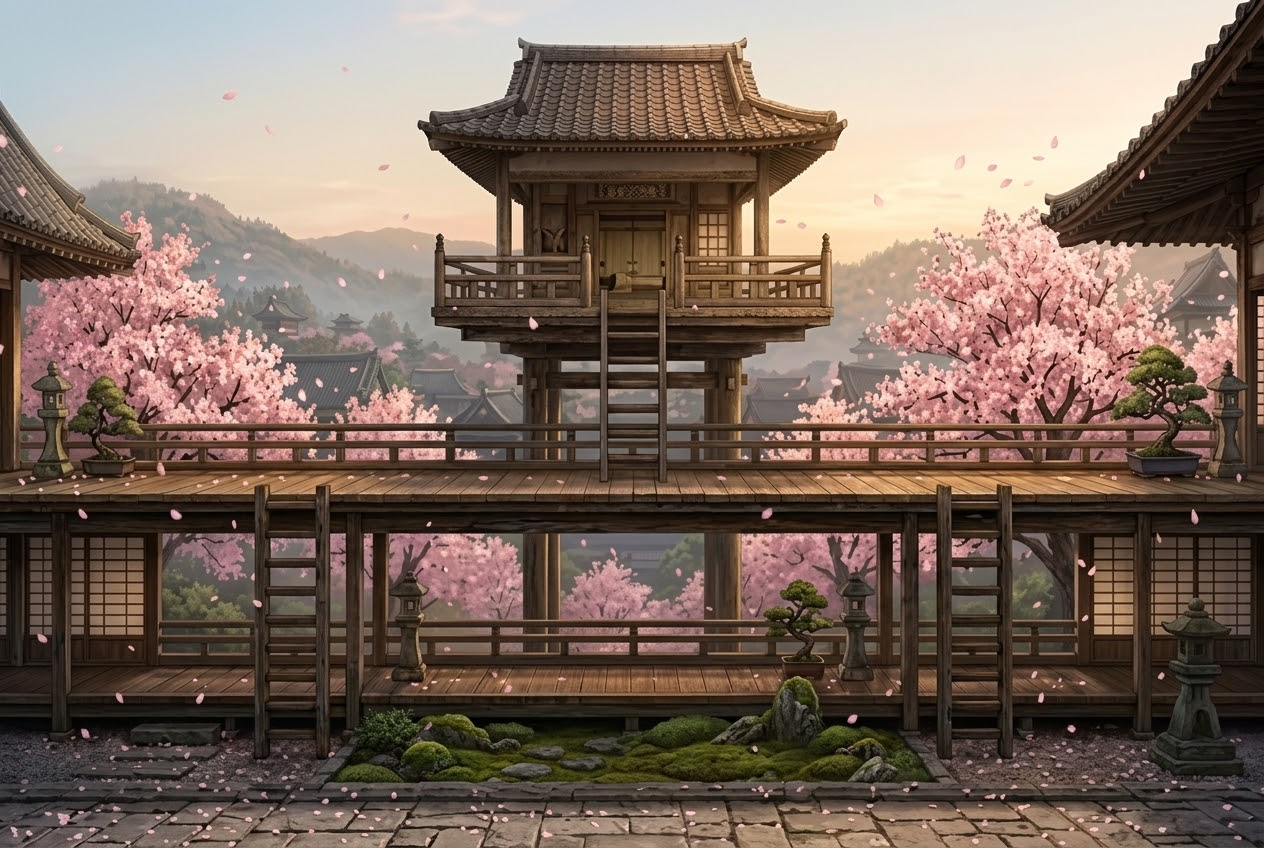
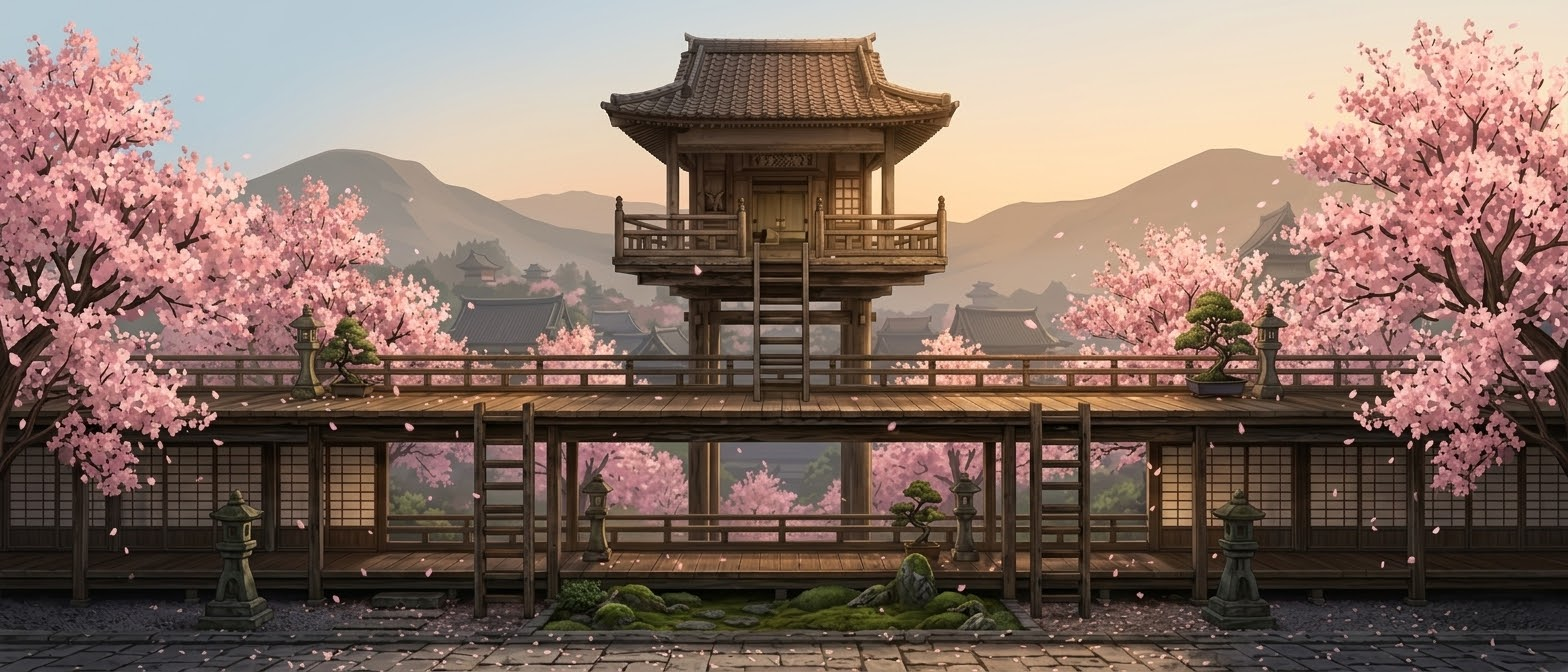
Sakura Heights: swap to flat-camera art (v3)
The v2 art had a subtle low-angle/upward tilt (visible platform
undersides). User regenerated with a proper flat orthogonal side view at
1568x672. Re-measured all floor lines and ladder positions from the new
image: top (pavilion) y=230, mid (walkway) y=400, bottom (courtyard)
y=602, ladders at x=503/770/1060, pavilion spans x=610-935. Updated
platform_mode.test.mjs dimension assertion to match.

diff --git a/game/src/levels/sakura-heights.js b/game/src/levels/sakura-heights.js
@@ -2,30 +2,31 @@
  * Sakura Heights — แมพโหมด Platform (ไอเดียต้นฉบับ: "Map ใหม่ตัวละครสูงไปจนชน platform สูง...")
  * ธีมศาลาญี่ปุ่น/ซากุระ ตรงกับภาพอ้างอิงที่ผู้ใช้ส่งมา (ศาลาไม้กลางแจ้ง มีบันไดขึ้นศาลา สวนหินมอสด้านล่าง)
  *
- * v2: มีอาร์ตจริงแล้ว (ผู้ใช้เจนภาพเอง 1264x848) ใช้ตรงๆ 1:1 ไม่สเกล
- * (v1 เป็น blockout สีเรียบ worldWidth 2200x950 — เลขทั้งหมดด้านล่างวัดใหม่จากภาพจริง
+ * v3: เปลี่ยนอาร์ตเป็นเวอร์ชันกล้อง flat/orthogonal จริง (ผู้ใช้เจนใหม่ 1568x672) — ใช้ตรงๆ 1:1 ไม่สเกล
+ * (v2 ของเดิม 1264x848 กล้องเงยขึ้นเล็กน้อย มองเห็นใต้พื้นชั้นบน ผู้ใช้เจนใหม่ตรงกว่าตามที่ขอ
+ * "มุม side view มันเหมือนเงยหน้ามองเลย อยากมองแบบตรงๆ" — เลขทั้งหมดด้านล่างวัดใหม่จากภาพ v3
  * ด้วยการวางกริดพิกเซลทับภาพแล้วดูตำแหน่งขอบพื้น/บันไดตรงๆ เหมือนที่ทำกับ neon-underline-bangkok.js v1->v2)
  *
- * โครงสร้าง (x กว้าง 1264, y ลึก 848):
- *   บน (top)   ศาลาลอยกลางจอ [440-830]   y=295 (พื้นระเบียงศาลา ใต้ราวไม้)
- *   กลาง (mid) เต็มความกว้าง [0-1264]     y=495 (พื้นระเบียงไม้ชั้นกลาง)
- *   ล่าง (bot) เต็มความกว้าง [0-1264]     y=780 (ลานหินสวนมอส)
+ * โครงสร้าง (x กว้าง 1568, y ลึก 672):
+ *   บน (top)   ศาลาลอยกลางจอ [610-935]   y=230 (พื้นระเบียงศาลา ใต้ราวไม้)
+ *   กลาง (mid) เต็มความกว้าง [0-1568]     y=400 (พื้นระเบียงไม้ชั้นกลาง)
+ *   ล่าง (bot) เต็มความกว้าง [0-1568]     y=602 (ลานหินสวนมอส)
  *
  * ออกแบบ "fall-free" ตามไอเดียผู้ใช้เป๊ะ: ไม่มี pit/ช่องว่างให้ตกเลย — ตายทางเดียวคือ HP หมด
  * ชั้นล่าง+กลาง เต็มความกว้างจอทั้งคู่ (เดินสุดขอบไม่มีตก) ชั้นบนลอยกลางจอ แต่ซ้าย-ขวาเปิดโล่ง
  * (ยืนขอบแล้วมองเห็นชั้นกลางด้านล่างตรงๆ — หล่นกลับไปชั้นกลางได้เฉย ๆ ไม่ใช่ตกหลุม)
  * ขึ้น-ลงทุกชั้นด้วยบันไดเท่านั้น (climb zone) ไม่ใช่กระโดดลัด — ล่าง<->กลาง 2 บันไดริมซ้าย-ขวา
- * (x=290/950 ตรงกับบันไดไม้ในภาพจริง) กลาง<->บน 1 บันไดกลางจอ (x=620 ตรงกับบันไดขึ้นศาลาในภาพ)
+ * (x=503/1060 ตรงกับบันไดไม้ในภาพจริง) กลาง<->บน 1 บันไดกลางจอ (x=770 ตรงกับบันไดขึ้นศาลาในภาพ)
  *
  * ยังไม่ได้ยืนตัวละครจริงในเกมเทียบ — ถ้าเล่นแล้วลอย/จมให้ขยับทีละ 10-20 เหมือนแมพอื่น
  */
-const WORLD_W = 1264;
-const WORLD_H = 848;
+const WORLD_W = 1568;
+const WORLD_H = 672;
 const T = 24; // ความหนาพื้นเดินได้
 
-const Y = { top: 295, mid: 495, bot: 780 };
-const TOP_X = 440;
-const TOP_W = 390; // ศาลาลอยกลางจอ [440-830] วัดจากขอบเสาราวในภาพจริง
+const Y = { top: 230, mid: 400, bot: 602 };
+const TOP_X = 610;
+const TOP_W = 325; // ศาลาลอยกลางจอ [610-935] วัดจากขอบเสาราวในภาพจริง
 
 export const SAKURA_HEIGHTS = {
   id: "sakura-heights",
@@ -46,9 +47,9 @@ export const SAKURA_HEIGHTS = {
 
   // บันไดปีน — x ตรงกับบันไดที่วาดไว้ในภาพจริง (ล่าง<->กลาง ริมซ้าย/ขวา, กลาง<->บน กลางจอ)
   ladders: [
-    { x: 290, width: 70, topY: Y.mid, bottomY: Y.bot }, // ล่างซ้าย <-> กลางซ้าย (บันไดไม้ริมซ้าย)
-    { x: 950, width: 70, topY: Y.mid, bottomY: Y.bot }, // ล่างขวา <-> กลางขวา (บันไดไม้ริมขวา)
-    { x: 620, width: 70, topY: Y.top, bottomY: Y.mid }, // กลาง <-> บน (บันไดขึ้นศาลากลางจอ)
+    { x: 503, width: 60, topY: Y.mid, bottomY: Y.bot }, // ล่างซ้าย <-> กลางซ้าย (บันไดไม้ริมซ้าย)
+    { x: 1060, width: 60, topY: Y.mid, bottomY: Y.bot }, // ล่างขวา <-> กลางขวา (บันไดไม้ริมขวา)
+    { x: 770, width: 60, topY: Y.top, bottomY: Y.mid }, // กลาง <-> บน (บันไดขึ้นศาลากลางจอ)
   ],
 
   // ไม่มีเหว/ช่องตกเลยตามไอเดียต้นฉบับ ("ไม่มีจุดตก fall อีกต่อไป")
@@ -57,12 +58,12 @@ export const SAKURA_HEIGHTS = {
   // [0]=P1 เริ่ม, [3]=P2 เริ่ม (MainGameScene._spawnPlayer ฮาร์ดโค้ด index นี้) — floorY ระบุตรงเพราะ
   // x เดียวกันมีได้หลายชั้น (ล่าง/กลาง ซ้อนคอลัมน์เดียวกันเต็มความกว้าง) เดาจาก platform ใต้ x อย่างเดียวแยกไม่ออก
   spawnPoints: [
-    { x: 150, floorY: Y.bot }, // [0] P1 — ล่างซ้าย ริมซ้าย
-    { x: 300, floorY: Y.mid }, // [1] กลางซ้าย
-    { x: 520, floorY: Y.top }, // [2] บน (ฝั่งซ้ายของศาลา)
-    { x: WORLD_W - 150, floorY: Y.bot }, // [3] P2 — ล่างขวา ริมขวา
-    { x: WORLD_W - 300, floorY: Y.mid }, // [4] กลางขวา
-    { x: 750, floorY: Y.top }, // [5] บน (ฝั่งขวาของศาลา)
+    { x: 180, floorY: Y.bot }, // [0] P1 — ล่างซ้าย ริมซ้าย
+    { x: 360, floorY: Y.mid }, // [1] กลางซ้าย
+    { x: 680, floorY: Y.top }, // [2] บน (ฝั่งซ้ายของศาลา)
+    { x: WORLD_W - 180, floorY: Y.bot }, // [3] P2 — ล่างขวา ริมขวา
+    { x: WORLD_W - 360, floorY: Y.mid }, // [4] กลางขวา
+    { x: 865, floorY: Y.top }, // [5] บน (ฝั่งขวาของศาลา)
   ],
 
   seasons: ["spring", "summer", "autumn", "winter", "rain"],

diff --git a/game/HANDOFF.md b/game/HANDOFF.md
@@ -36,6 +36,7 @@
   - **แมพใหม่ `sakura-heights.js`** (โหมด platform, id `sakura_heights`, เริ่มก่อน neon ในลิสต์) — ธีมศาลาไม้/ซากุระ ตรงกับภาพอ้างอิงที่ผู้ใช้ส่งมา 3 ชั้น (ล่าง/กลางเต็มความกว้างจอ ไม่มีทางตก, บนลอยกลางจอ ซ้าย-ขวาโล่งหล่นกลับชั้นกลางได้) เชื่อมด้วยบันได 3 จุด (ล่าง↔กลาง ริมซ้าย-ขวา, กลาง↔บน กลางจอ) **`pits: []` ไม่มีจุดตกตายเลยตามไอเดียต้นฉบับ**
     - **v1** เป็น blockout สีเรียบ (`useSolidBackground`) world 2200×950 ตรงกับ diagram ที่ให้ผู้ใช้ไปก่อนหน้า (ภาพอ้างอิงที่ส่งมาตอนแรก 512×220 เล็กเกินใช้เป็น background จริง เลยให้ prompt เจนใหม่)
     - **v2: มีอาร์ตจริงแล้ว** (ผู้ใช้เจนภาพเอง 1264×848 — ธีมศาลาไม้กลางแจ้ง สวนหินมอส) เลิกใช้กล่องสีบล็อกเอาต์ v1 แล้ว world/platform/ladder/spawn ทุกจุดวัดใหม่จากภาพจริง (วางกริดพิกเซลทับภาพ ครอปซูมดูขอบพื้น/บันไดตรง ๆ แบบเดียวกับที่ทำกับ `neon-underline-bangkok.js` v1→v2) — floorY: บน (ศาลา) 295 · กลาง 495 · ล่าง (ลานหิน) 780 · ศาลาลอยกลางจอช่วง x 440-830 · บันได x=290/620/950 · `characterTint` โทนแดดอุ่น `0xfff0dc` (ต่างจากแมพกลางคืนอื่น ๆ)
+    - **v3: เปลี่ยนอาร์ตเป็นกล้อง flat/orthogonal จริง** (ผู้ใช้บอกว่า v2 "มุม side view มันเหมือนเงยหน้ามองเลย" — เจนใหม่ตามที่ขอ 1568×672 ไม่มีมุมเงย) วัดพิกัดใหม่ทั้งหมด: worldWidth/Height 1568×672 · floorY: บน 230 · กลาง 400 · ล่าง 602 · ศาลาลอยกลางจอช่วง x 610-935 · บันได x=503/770/1060
   - ชุดทดสอบใหม่ `platform_mode.test.mjs` (21 ข้อ) — ค่าคงที่ `GAME_MODES`, `applySeasonModifiers` คูณฤดู×โหมดถูกต้อง, ปิด dash ในโหมด platform, ย่อขนาด 60% ตอนสร้างตัวละคร, ร่างแปลงสเกลตามด้วย, โครงแมพ `sakura-heights.js` fall-free
   - **ยังไม่ได้ทำ/รู้อยู่แล้ว:** ยังไม่ได้เทสภาพจริงในเบราว์เซอร์ (sandbox นี้โหลด Phaser จาก cdnjs ไม่ได้ — ดูหัวข้อกับดัก) รอผู้ใช้เทสเอง · ปุ่มกลับล็อบบี้กลางเกมยังไม่มี · ตัวเลข `RUN_SPEED 0.78`/`DOUBLE_JUMP_VELOCITY 0.82`/scale `0.6` เป็นค่าเริ่มต้นตามไอเดีย ยังไม่ผ่านการเล่นจริงเพื่อจูน
 
